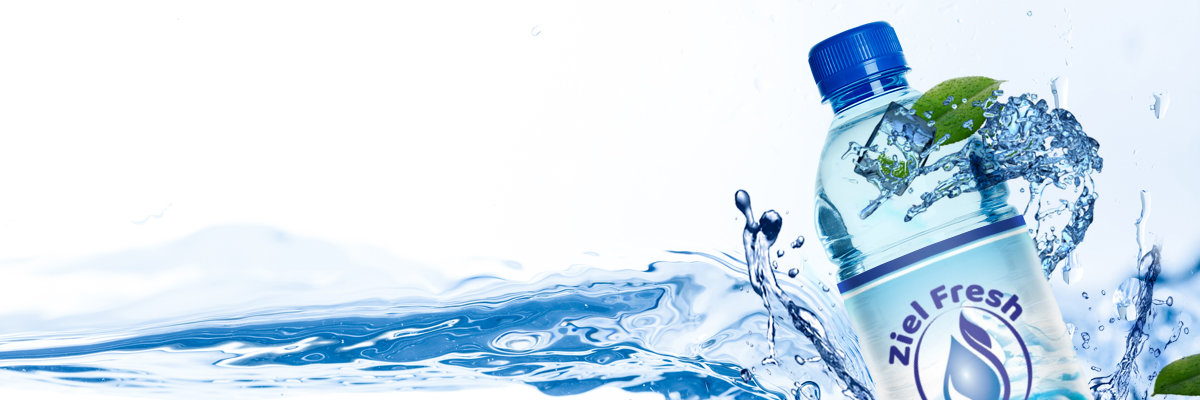
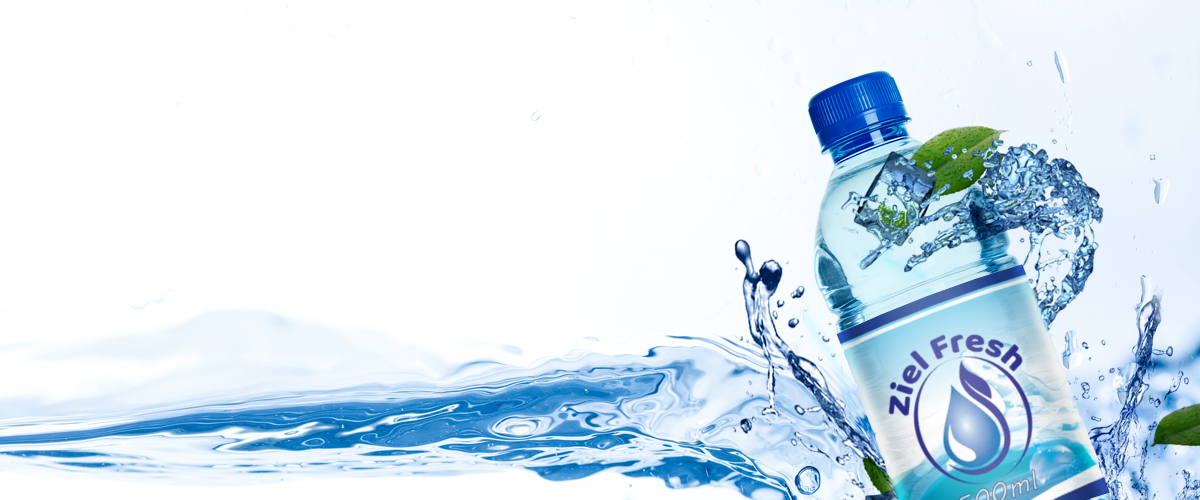
fix(design): updated homepage hero image and ziel fresh gallery

diff --git a/pages/products/ziel-fresh.vue b/pages/products/ziel-fresh.vue
@@ -18,21 +18,17 @@
               p.sec_content.pt-3.text-muted.mx-auto.
                 You can order the water in these packagings: #[strong 500ml and 1 litre] dozen package, #[strong 18.9 litres] Refillable or Disposable.
                 For enquiries, please call #[a.text-custom.nuxt-link-exact-active.nuxt-link-active(href='tel: +254 713-917-108') +254 713-917-108] or #[a.text-custom.nuxt-link-exact-active.nuxt-link-active(href='tel: +254 727-238-558') +254 727-238-558]
+        //- TODO: Fix the video links
         .row.mb-4
           .col-6.col-lg-4
             figure
               a.d-block.mb-4(data-fancybox="images" :href="require('~/assets/images/products/image-1.jpeg')" data-width="1536" data-height="2304" data-caption="<h6>Ziel Fresh Bottled Water</h6>")
                 img.img-fluid(src="~/assets/images/products/image-1-1.jpeg")
-            //- Use this card to play mp4 video from google drive
-            figure
-              .card
-                a(data-fancybox="html5-video" data-width="640" data-height="360" href="https://drive.google.com/file/d/1_FIcmo4Gay1l9bouVRa-A4-ycHy9W3_V/preview")
-                  img.card-img-top.img-fluid(src="~/assets/images/products/image-2-1.jpeg")
-                .card-body
-                  p.card-text Factory tour: Inside series
-                //- video#myVideo(width="640" height="320" controls="" style="display:none;")
-                //-   source(src="https://www.html5rocks.com/en/tutorials/video/basics/Chrome_ImF.mp4')}" type="video/mp4")
-                //-   | Your browser doesn't support HTML5 video tag.
+            figure.card.rounded-0
+              a(data-fancybox="html5-video" data-width="640" data-height="360" href="https://drive.google.com/file/d/1_FIcmo4Gay1l9bouVRa-A4-ycHy9W3_V/preview" data-caption="<h6>Factory tour: Inside series</h6>")
+                  img.card-img-top.img-fluid.rounded-0(src="~/assets/images/products/image-2-1.jpeg")
+              .card-body
+                p.card-text Factory tour: Inside series
           .col-6.col-lg-4
             figure
               a.d-block.mb-4(data-fancybox="images" :href="require('~/assets/images/products/image-3.jpeg')" data-width="1279" data-height="719" data-caption="<h6>Ziel Fresh: 500ml Package.</h6>")
@@ -40,31 +36,22 @@
             figure
               a.d-block.mb-4(data-fancybox="images" :href="require('~/assets/images/products/image-4.jpeg')" data-width="1279" data-height="853" data-caption="<h6>Ziel Fresh: Water Treatment Tanks.</h6>")
                 img.img-fluid(src="~/assets/images/products/image-4-1.jpeg")
-            figure
-              .card
-                a(data-fancybox="html5-video" data-width="640" data-height="360" href="https://drive.google.com/file/d/1_A0K9ScYBBESSsBTdOnlrKXkl_A2n7sn/preview")
-                  //- TODO: Add height px of the image to align at gallery bottom.
-                  img.card-img-top.img-fluid(src="~/assets/images/products/image-5-1.jpeg")
-                .card-body
-                  p.card-text Factory tour: Outside Series
-                //- video#myVideo(width="640" height="320" controls="" style="display:none;")
-                //-   source(src="https://www.html5rocks.com/en/tutorials/video/basics/Chrome_ImF.mp4" type="video/mp4")
-                //-   | Your browser doesn't support HTML5 video tag.
+            figure.card.rounded-0
+              a(data-fancybox="html5-video" data-width="640" data-height="360" href="https://drive.google.com/file/d/1_A0K9ScYBBESSsBTdOnlrKXkl_A2n7sn/preview" data-caption="<h6>Factory tour: Outside Series</h6>")
+                img.card-img-top.img-fluid.rounded-0(src="~/assets/images/products/image-5-1.jpeg")
+              .card-body
+                p.card-text Factory tour: Outside Series
           .col-6.col-lg-4.d-none.d-lg-block
             figure
               a.d-block.mb-4(data-fancybox="images" :href="require('~/assets/images/products/image-6.jpeg')" data-width="1279" data-height="870" data-caption="<h6>Ziel Fresh: All our packaging.</h6>")
                 img.img-fluid(src="~/assets/images/products/image-6-1.jpeg")
-            figure
-              .card
-                a(data-fancybox="html5-video" data-width="640" data-height="360" href="https://drive.google.com/file/d/1ZpxhigV9JPqhBwIaFhZCORpCPAXCrHT0/preview")
-                  img.card-img-top.img-fluid(src="~/assets/images/products/image-7-1.jpeg")
-                .card-body
-                  p.card-text Factory tour: Packaging Series
-                //- video#myVideo(width="640" height="320" controls="" style="display:none;")
-                //-   source(src="https://www.html5rocks.com/en/tutorials/video/basics/Chrome_ImF.mp4" type="video/mp4")
-                //-   | Your browser doesn't support HTML5 video tag.
-        
+            figure.card.rounded-0
+              a(data-fancybox="html5-video" data-width="640" data-height="360" href="https://drive.google.com/file/d/1ZpxhigV9JPqhBwIaFhZCORpCPAXCrHT0/preview" data-caption="<h6>Factory tour: Packaging Series</h6>")
+                img.card-img-top.img-fluid.rounded-0(src="~/assets/images/products/image-7-1.jpeg") 
+              .card-body
+                p.card-text Factory tour: Packaging Series       
     // End Introduction and Gallery
+
     // Start Description
     section.section.bg-features.vertical-content
       .bg-features-overlay.ziel-fresh

diff --git a/pages/index.vue b/pages/index.vue
@@ -5,13 +5,13 @@
       .home-table
         .home-table-center
           .container.z-index.position-relative
-            .row.vertical-content
+            .row.vertical-content.justify-content-start
               .col-lg-6
                 .home_content.mt-3
                   p.home_small_title
                     | Welcome To #[span.text-custom Ziel Investments]
                   h1
-                    span.text-custom.mr-1 Ziel Investments 
+                    span.text-custom.mr-1 In Ziel 
                     span.text-typed
                   p.home_small_content.mt-4.text-muted Through innovation engineering applied to digital, we deliver measurably better results.
                   .pt-3
@@ -22,16 +22,9 @@
                       //- TODO: ensure mp4 plays video. 
                     video#myVideo(width="640" height="320" controls="" style="display:none;")
                       source(src="" type="video/mp4")
-                  .moeny-more.mt-4.pt-3
-                    //- p.text-custom Work with the best
-              .col-lg-6
-                //- .mt-3
-                  img.img-fluid.mx-auto.d-block(src="~/assets/images/custom/homepage-landing.png" alt="")
       div
         a.scroll.scroll_down(href="#work")
           span
-      //- .curv-img
-        img.img-fluid.mx-auto.d-block(src="~/assets/images/wave-static.svg" alt="")
     // End Home
 
     // Start Client Logo

diff --git a/nuxt.config.js b/nuxt.config.js
@@ -88,7 +88,6 @@ export default {
       { src: 'https://cdn.jsdelivr.net/gh/fancyapps/fancybox@3.5.7/dist/jquery.fancybox.min.js' },
       { src: 'https://cdn.jsdelivr.net/npm/popper.js@1.16.0/dist/umd/popper.min.js' },
       { src: 'https://stackpath.bootstrapcdn.com/bootstrap/4.4.1/js/bootstrap.min.js' },
-      // { src: 'https://cdnjs.cloudflare.com/ajax/libs/animejs/3.2.0/anime.min.js' },
     ],
     link: [
       { rel: 'stylesheet', href: 'https://cdn.jsdelivr.net/gh/fancyapps/fancybox@3.5.7/dist/jquery.fancybox.min.css' },

diff --git a/assets/css/custom.css b/assets/css/custom.css
@@ -21,7 +21,7 @@
 @media (min-width: 992px) {
   .landing-section {
     background-position: right;
-    min-height: 710px;
+    min-height: 500px;
   }
 }
 

diff --git a/vue-shim.d.ts b/vue-shim.d.ts
@@ -2,5 +2,3 @@ declare module '*.vue' {
   import Vue from 'vue';
   export default Vue;
 }
-
-declare module 'animejs';
